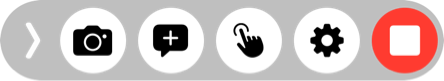
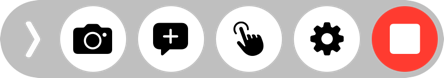
Corner radius tweaks

diff --git a/DetoxRecorder/DTXCaptureControlWindow.m b/DetoxRecorder/DTXCaptureControlWindow.m
@@ -123,7 +123,7 @@ const CGFloat buttonWidth = 44;
 		_wrapperView.translatesAutoresizingMaskIntoConstraints = NO;
 		_wrapperView.clipsToBounds = YES;
 		
-		_wrapperView.layer.cornerRadius = buttonWidth * 0.6111111111;
+		_wrapperView.layer.cornerRadius = (buttonWidth + 8) / 2;
 		
 		[self.rootViewController.view addSubview:_wrapperView];
 		
@@ -202,7 +202,7 @@ const CGFloat buttonWidth = 44;
 			
 			_topConstraint,
 			[_wrapperView.centerXAnchor constraintEqualToAnchor:self.rootViewController.view.centerXAnchor],
-			[_wrapperView.heightAnchor constraintEqualToConstant:buttonWidth * 1.2222222222],
+			[_wrapperView.heightAnchor constraintEqualToConstant:buttonWidth + 8],
 			
 			_leadingConstraint,
 			_trailingConstraint,
